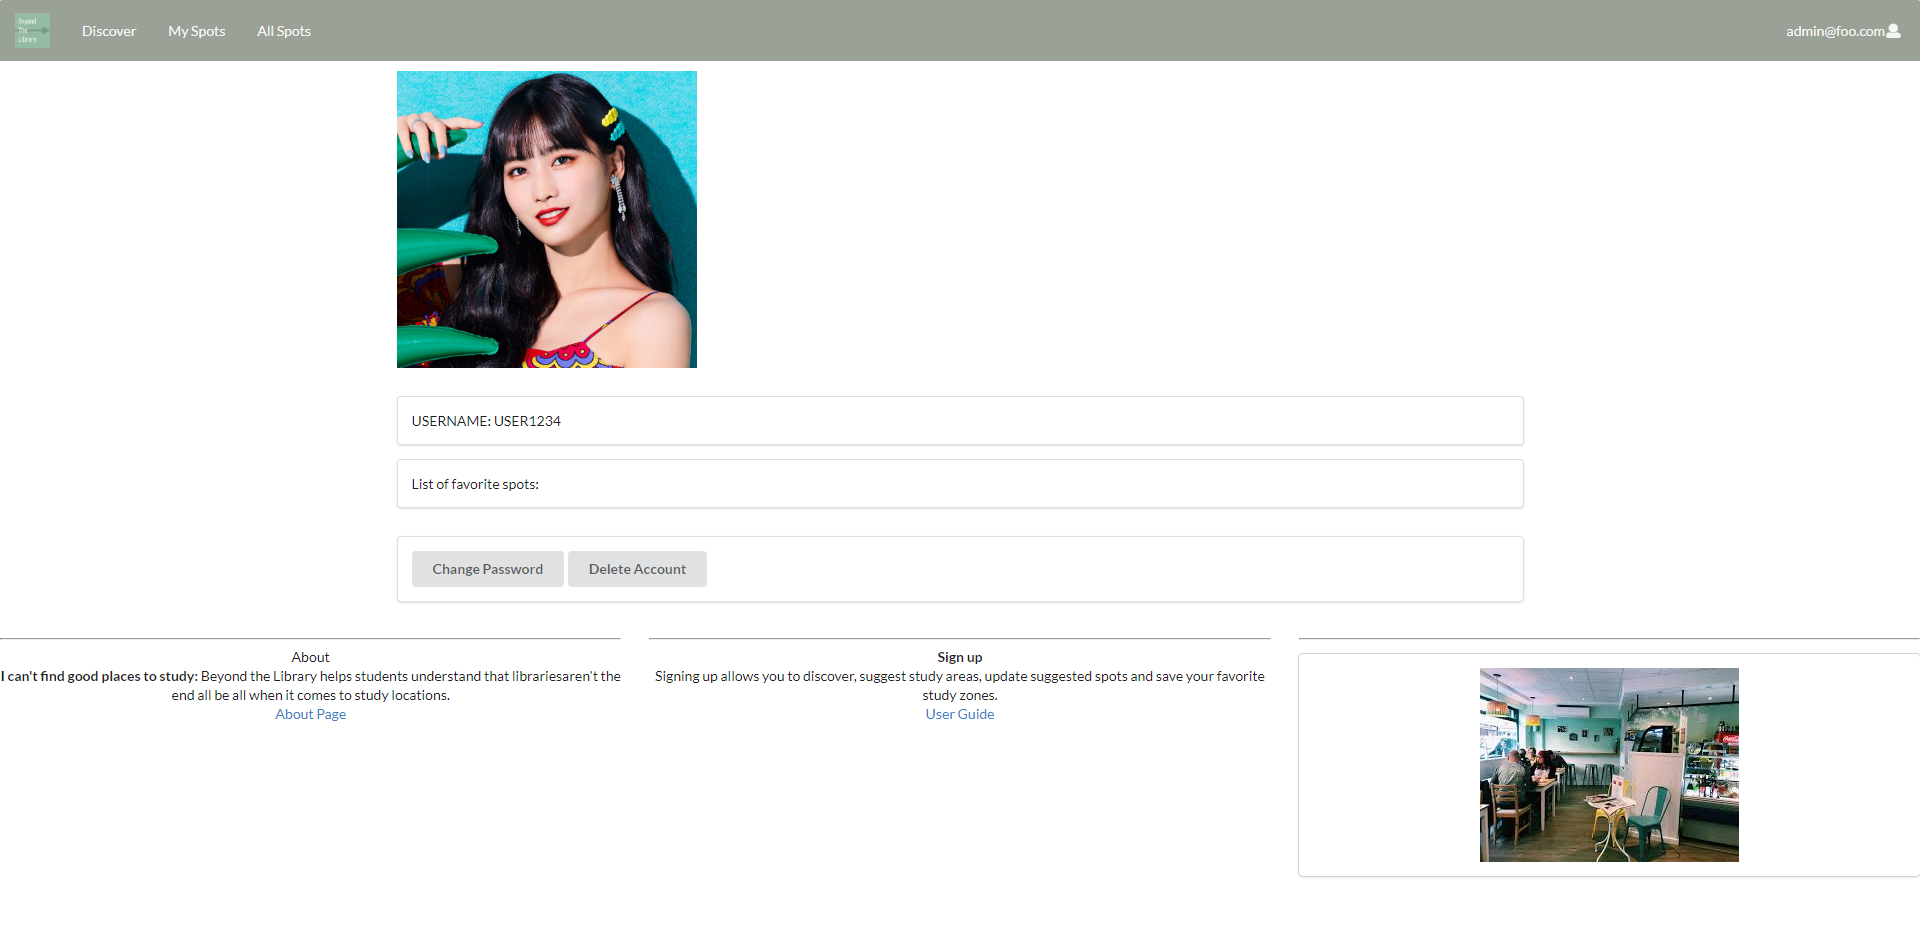
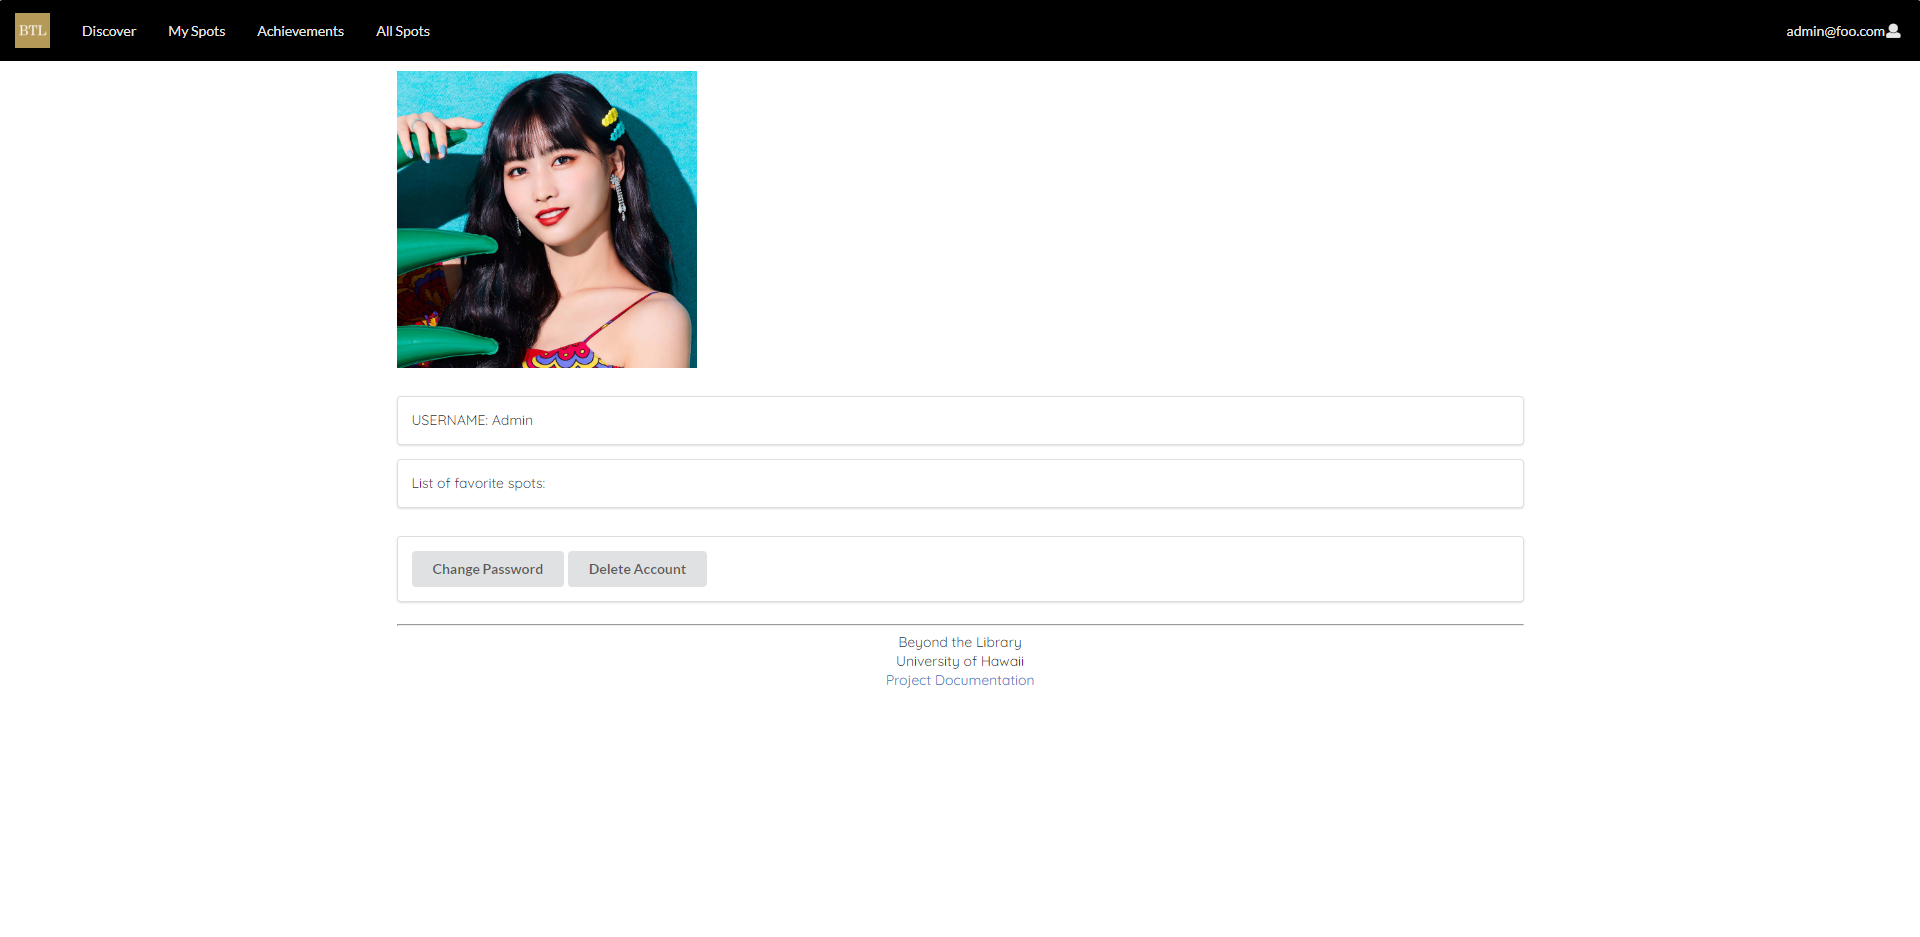
Updated for M2

diff --git a/index.md b/index.md
@@ -1,4 +1,4 @@
-<img src="images/logo-temp.png" alt="logo" width="250" height="250"/>
+<a href='https://beyond-the-library.meteorapp.com'><img src="images/logo-temp.png" alt="logo" width="250" height="250"/></a>
 
 
 ## Quick Access
@@ -8,10 +8,13 @@
 * [Code Repository](https://github.com/beyond-the-library/beyond-the-library)
 * [Project Milestone 1](https://github.com/beyond-the-library/beyond-the-library/projects/3)
 * [Project Milestone 2](https://github.com/beyond-the-library/beyond-the-library/projects/2)
+* [Project Milestone 3](https://github.com/beyond-the-library/beyond-the-library/projects/2)
 
 ## Table of Contents
 * [Overview](#overview)
 * [User Guide](#user-guide)
+* [Developer Guide](#developer-guide)
+* [Team Members](#team-members)
 
 ## Overview
 
@@ -19,15 +22,15 @@ Beyond the Library is a web application for students to post and rate study spot
 
 ## User Guide
 
-Examples of pages in the Beyond the Library web application.
+The following are example snapshots of the pages in Beyond The Library.
 
 ### Landing Page
 
-![](images/landingpagemockup.png)
+![](images/landing.png)
 [I'm alive, click me to visit the page you see above!](http://beyond-the-library.meteorapp.com/#/)
 
-The landing page is created with the idea that users shouldn't have to scroll around a page to figure out what the
- page/website is all about. We provide information about the site and how/why users should create an account. 
+The landing page is created with the idea that users shouldn't have to scroll too much around a page to figure out what
+ the page/website is all about. We provide information about the site and how/why users should create an account.
 
 ### User Profile Page
 
@@ -51,7 +54,7 @@ The sign up page allows people to register for an account.
 The sign in page allows users to log into their account. Certain features, such as adding a study spot requires the
  user to be logged in.
 
-### Add Study Spot Page
+### My Study Spot Page
 
 ![](images/myspots.png)
 [I'm alive, click me to visit the page you see above!](http://beyond-the-library.meteorapp.com/#/myspots)
@@ -59,18 +62,88 @@ The sign in page allows users to log into their account. Certain features, such 
 ![](images/adminspots.png)
 [I'm alive, click me to visit the page you see above!](http://beyond-the-library.meteorapp.com/#/admin)
 
-Users can see all the spots they posted to the admin user on myspots page. Users cannot directly publish a spot; the admin user can edit and publish spots on the admin allspots page.
+Study spots submitted by the user will appear under the My Spots page. Users cannot directly publish a spot; the admin
+ user can edit and publish spots on the admin All Spots page.
 
 ### Discover New Study Spots Page
 
 ![](images/discover.png)
 [I'm alive, click me to visit the page you see above!](http://beyond-the-library.meteorapp.com/#/discovery)
 
-Users can filter study spots based on various parameters such as major restriction.
+Users can filter study spots based on various parameters such as major restriction. Rejected and archived spots will
+ NOT be displayed on this page. Only the admin user has access to those study spots.
+ 
+ ### Achievements Page
+ 
+ ![](images/achievement.png)
+[I'm alive, click me to visit the page you see above!](http://beyond-the-library.meteorapp.com/#/achievements)
 
+Users can earn achievements based on their activities such as adding a certain amount of study spots to their
+ favorites. This encourages users to be active in Beyond The Library.
+  
 ## Developer Guide
 
-(Apologies, this is still under construction. Mahalo for your understanding)
+### Installation
+
+1. Install <a href="https://www.meteor.com/install">Meteor</a>
+2. Clone <a href="https://github.com/beyond-the-library/beyond-the-library">Beyond the Library</a> to your local machine
+3. Navigate to the app/ directory in your local copy of Beyond the Library
+4. Run the following commands to install the necessary libraries:
+    ```
+    meteor npm install
+    ```
+    ```
+    npm i semantic-ui-carousel-react
+    ```
+5. Run the application with the following command:
+    ```
+    npm i semantic-ui-carousel-react
+    ```
+6. Running the app for the first time should produce a similar output:
+    ```
+   D:\User\Documents\GitHub\beyond-the-library\app>meteor npm run start
+   
+   > meteor-application-template-react@ start D:\User\Documents\GitHub\beyond-the-library\app
+   > meteor --no-release-check --settings ../config/settings.development.json
+   
+   [[[[[ ~\D\User\Documents\GitHub\beyond-the-library\app ]]]]]
+   
+   => Started proxy.
+   => Started MongoDB.
+   W20191204-22:38:22.096(-10)? (STDERR) Note: you are using a pure-JavaScript implementation of bcrypt.
+   W20191204-22:38:22.159(-10)? (STDERR) While this implementation will work correctly, it is known to be
+   W20191204-22:38:22.159(-10)? (STDERR) approximately three times slower than the native implementation.
+   W20191204-22:38:22.160(-10)? (STDERR) In order to use the native implementation instead, run
+   W20191204-22:38:22.161(-10)? (STDERR) 
+   W20191204-22:38:22.161(-10)? (STDERR)   meteor npm install --save bcrypt
+   W20191204-22:38:22.162(-10)? (STDERR) 
+   W20191204-22:38:22.163(-10)? (STDERR) in the root directory of your application.
+   I20191204-22:38:22.595(-10)? Creating the default user(s)
+   I20191204-22:38:22.596(-10)?   Creating user admin@foo.com.
+   I20191204-22:38:22.917(-10)?   Creating user john@foo.com.
+   I20191204-22:38:23.222(-10)?   Creating user aljtest@foo.com.
+   I20191204-22:38:23.366(-10)? Creating default spots data.
+   I20191204-22:38:23.368(-10)?   Adding: Paradise Palms (john@foo.com)
+   I20191204-22:38:23.426(-10)?   Adding: Engineering POST Building (admin@foo.com)
+   I20191204-22:38:23.429(-10)?   Adding: Rejected Spot (admin@foo.com)
+   I20191204-22:38:23.432(-10)?   Adding: Archived Spot (admin@foo.com)
+   I20191204-22:38:23.435(-10)?   Adding: Le Crepe Law School (john@foo.com)
+   I20191204-22:38:23.438(-10)?   Adding: Marine Science Building (john@foo.com)
+   I20191204-22:38:23.440(-10)?   Adding: Pacific Hurricane Center (john@foo.com)
+   I20191204-22:38:23.443(-10)?   Adding: Queen Liliuokalani Center (john@foo.com)
+   I20191204-22:38:23.445(-10)?   Adding: Saunders Hall (john@foo.com)
+   I20191204-22:38:23.449(-10)?   Adding: Architecture (john@foo.com)
+   I20191204-22:38:23.451(-10)?   Adding: Balle (john@foo.com)
+   I20191204-22:38:23.454(-10)?   Adding: George Hall (john@foo.com)
+   I20191204-22:38:23.457(-10)?   Adding: Kuykendall Hall (john@foo.com)
+   => Started your app.
+   
+   => App running at: http://localhost:3000/
+      Type Control-C twice to stop.
+
+    ```
+
+7. If the app was installed correctly, you will be able to view it at http://localhost:3000/. You can login using the credentials in <a href="https://github.com/beyond-the-library/beyond-the-library/blob/master/config/settings.development.json">settings.development.json</a>
 
 ## Team Members
 
@@ -78,3 +151,5 @@ Users can filter study spots based on various parameters such as major restricti
 * [Yuhan's Professional Portfolio](https://yuhanj.github.io/)
 * [Aljaed's Professional Portfolio](https://aljereno.github.io/)    
 * [Andrew's Professional Portfolio](https://asalazar46.github.io/)  
+
+[^Back to Top of Page^](#quick-access)
